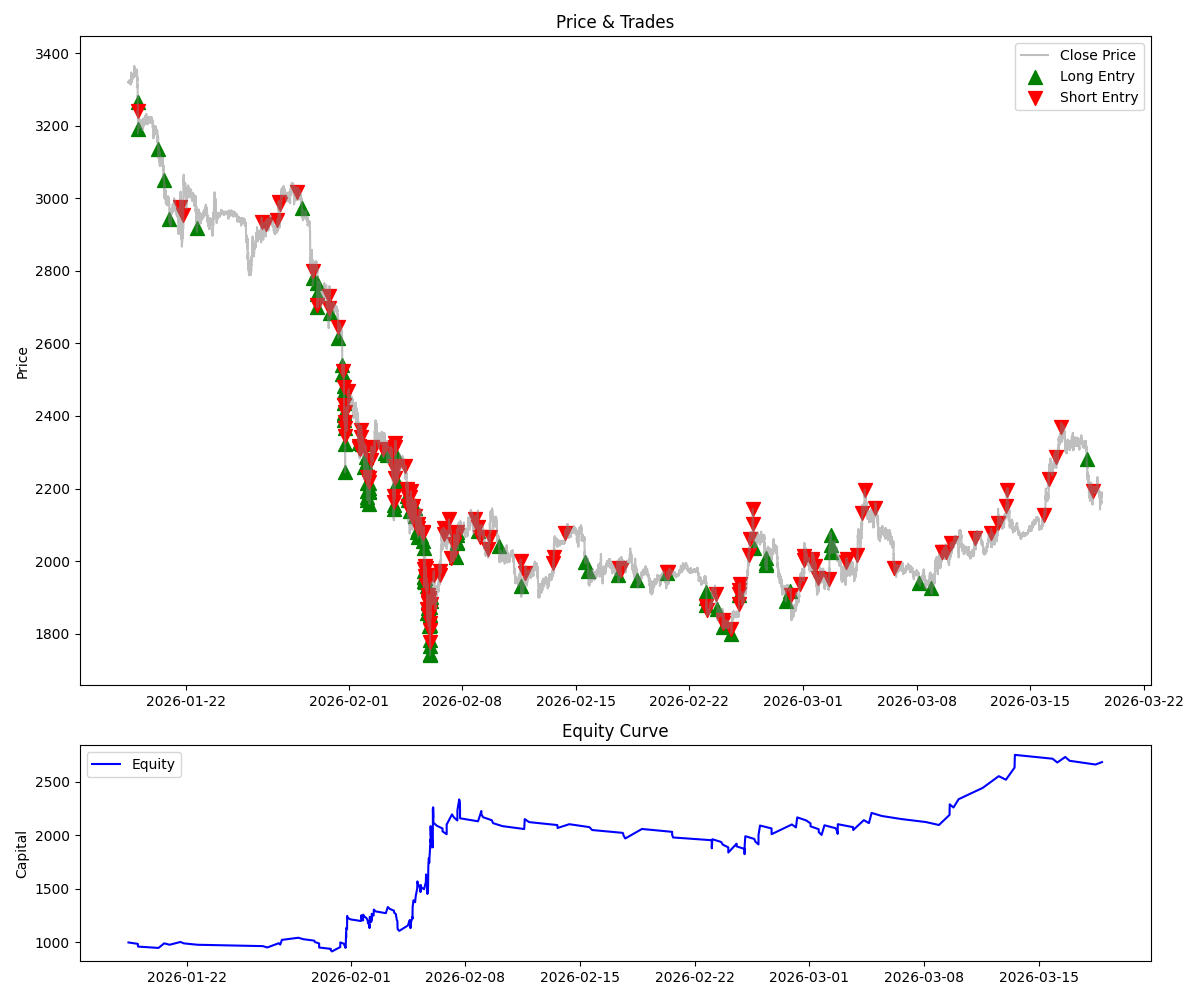
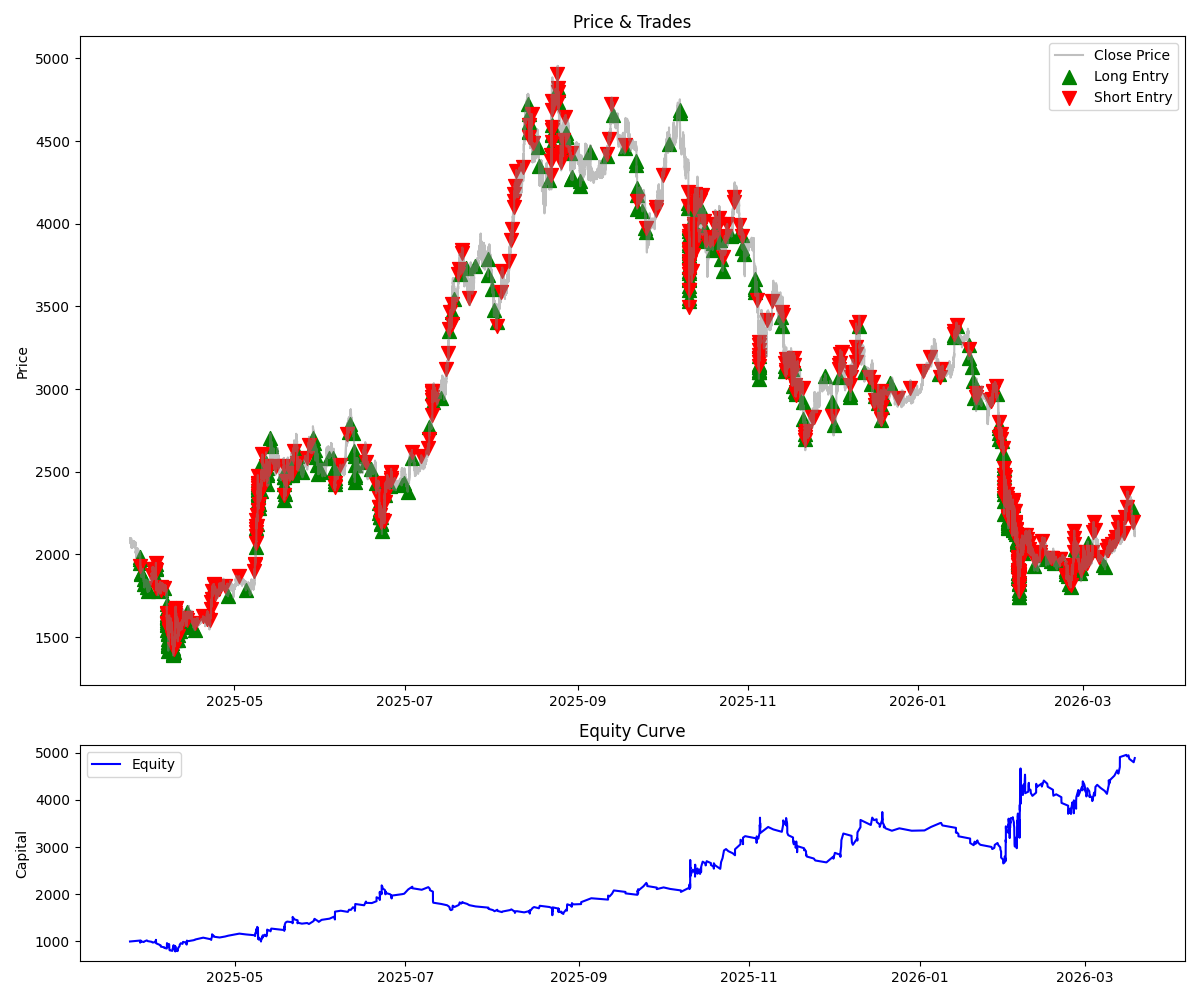
fixed

diff --git a/live_trader.py b/live_trader.py
@@ -1,7 +1,7 @@
 """
 Live Trader — Delta Exchange India
-  Entry  : Market order (next candle open)
-  SL     : Stop-Market  at entry ± STOP_LOSS_PCT
+  Entry  : Fast market order (~200ms), then attach SL/TP separately
+  SL     : Stop-Market at entry ± STOP_LOSS_PCT
   TP     : Limit order  at entry ± TAKE_PROFIT_PCT
   TIME   : Market close after TIME_EXIT_CANDLES candles regardless of P&L
   Signal : Same mean-reversion logic as backtester
@@ -118,35 +118,136 @@ def get_signal(open_: float, close_: float) -> int:
 
 # ── Order placement ───────────────────────────────────────────────────────────
 
-def place_bracket_order(side: str, size: int, entry_price: float) -> dict:
-    if side == "buy":
-        sl_trigger = round(entry_price * (1 - cfg.STOP_LOSS_PCT), 2)
-        tp_price   = round(entry_price * (1 + cfg.TAKE_PROFIT_PCT), 2)
-    else:
-        sl_trigger = round(entry_price * (1 + cfg.STOP_LOSS_PCT), 2)
-        tp_price   = round(entry_price * (1 - cfg.TAKE_PROFIT_PCT), 2)
-
+def place_market_order(side: str, size: int) -> dict:
+    """Step 1: Fast market entry (~200ms). Returns order response with fill price."""
     body = json.dumps({
-        "product_id":                      ETH_PRODUCT_ID,
-        "order_type":                      "market_order",
-        "side":                            side,
-        "size":                            size,
-        "bracket_stop_loss_price":         str(sl_trigger),   # stop market — no limit price
-        "bracket_take_profit_price":       str(tp_price),
-        "bracket_take_profit_limit_price": str(tp_price),
+        "product_id":  ETH_PRODUCT_ID,
+        "order_type":  "market_order",
+        "side":        side,
+        "size":        size,
     })
-
     path = "/v2/orders"
     try:
         resp = session.post(BASE_URL + path, headers=_rest_headers("POST", path, body), data=body, timeout=5)
         return resp.json()
     except Exception as e:
-        log.error(f"Order placement exception: {e}")
+        log.error(f"Market order exception: {e}")
         return {}
 
 
+def attach_sl_tp(side: str, size: int, fill_price: float, retries: int = 3) -> dict:
+    """Step 2: Attach SL (stop-market, exact config distance) + TP (limit) to the open position.
+    Retries up to `retries` times on failure."""
+    sl_distance = cfg.STOP_LOSS_PCT
+    if side == "buy":
+        sl_trigger = round(fill_price * (1 - sl_distance), 2)
+        tp_price   = round(fill_price * (1 + cfg.TAKE_PROFIT_PCT), 2)
+        sl_side    = "sell"
+    else:
+        sl_trigger = round(fill_price * (1 + sl_distance), 2)
+        tp_price   = round(fill_price * (1 - cfg.TAKE_PROFIT_PCT), 2)
+        sl_side    = "buy"
+
+    # Place SL — stop-market order
+    sl_body = json.dumps({
+        "product_id":    ETH_PRODUCT_ID,
+        "order_type":    "market_order",
+        "stop_order_type": "stop_loss_order",
+        "side":          sl_side,
+        "size":          size,
+        "stop_price":    str(sl_trigger),
+        "reduce_only":   True,
+    })
+
+    # Place TP — limit order
+    tp_body = json.dumps({
+        "product_id":  ETH_PRODUCT_ID,
+        "order_type":  "limit_order",
+        "side":        sl_side,
+        "size":        size,
+        "limit_price": str(tp_price),
+        "reduce_only": True,
+    })
+
+    path = "/v2/orders"
+    sl_ok, tp_ok = False, False
+    sl_result, tp_result = {}, {}
+
+    for attempt in range(1, retries + 1):
+        try:
+            # SL first — protection is priority
+            if not sl_ok:
+                resp = session.post(BASE_URL + path, headers=_rest_headers("POST", path, sl_body), data=sl_body, timeout=5)
+                sl_result = resp.json()
+                if sl_result.get("success"):
+                    sl_ok = True
+                    log.info(f"SL attached | stop-market @ {sl_trigger} (1.5× = {sl_distance*100:.3f}%) | attempt {attempt}")
+                else:
+                    log.warning(f"SL attach failed (attempt {attempt}/{retries}): {sl_result}")
+
+            # TP after SL is secured
+            if not tp_ok:
+                resp = session.post(BASE_URL + path, headers=_rest_headers("POST", path, tp_body), data=tp_body, timeout=5)
+                tp_result = resp.json()
+                if tp_result.get("success"):
+                    tp_ok = True
+                    log.info(f"TP attached | limit @ {tp_price} ({cfg.TAKE_PROFIT_PCT*100:.2f}%) | attempt {attempt}")
+                else:
+                    log.warning(f"TP attach failed (attempt {attempt}/{retries}): {tp_result}")
+
+            if sl_ok and tp_ok:
+                return {"success": True, "sl": sl_trigger, "tp": tp_price}
+
+        except Exception as e:
+            log.error(f"SL/TP attach exception (attempt {attempt}/{retries}): {e}")
+
+        if attempt < retries:
+            time.sleep(0.3)  # brief pause before retry
+
+    return {"success": sl_ok and tp_ok, "sl_ok": sl_ok, "tp_ok": tp_ok,
+            "sl": sl_result, "tp": tp_result}
+
+
+def cancel_open_orders() -> dict:
+    """Cancel ALL open orders for ETHUSD — cleans up orphan SL/TP after any exit."""
+    path = f"/v2/orders?product_id={ETH_PRODUCT_ID}"
+    try:
+        resp = session.get(BASE_URL + path, headers=_rest_headers("GET", path), timeout=5)
+        data = resp.json()
+    except Exception as e:
+        log.error(f"Fetch open orders exception: {e}")
+        return {}
+
+    if not data.get("success"):
+        log.warning(f"Could not fetch open orders: {data}")
+        return data
+
+    orders = data.get("result", [])
+    if not orders:
+        log.info("No open orders to cancel")
+        return {"success": True, "cancelled": 0}
+
+    cancelled = 0
+    for order in orders:
+        oid = order.get("id")
+        del_path = f"/v2/orders/{oid}"
+        try:
+            resp = session.delete(BASE_URL + del_path, headers=_rest_headers("DELETE", del_path), timeout=5)
+            r = resp.json()
+            if r.get("success"):
+                cancelled += 1
+                log.info(f"Cancelled order {oid} | type={order.get('order_type')} side={order.get('side')}")
+            else:
+                log.warning(f"Failed to cancel order {oid}: {r}")
+        except Exception as e:
+            log.error(f"Cancel order {oid} exception: {e}")
+
+    log.info(f"Cancelled {cancelled}/{len(orders)} open orders")
+    return {"success": True, "cancelled": cancelled}
+
+
 def close_position(side: str, size: int) -> dict:
-    """Market close — opposite side, reduce_only. Also cancels bracket orders."""
+    """Market close — opposite side, reduce_only. Then cancel all open orders (SL/TP)."""
     close_side = "sell" if side == "buy" else "buy"
     body = json.dumps({
         "product_id":  ETH_PRODUCT_ID,
@@ -158,10 +259,14 @@ def close_position(side: str, size: int) -> dict:
     path = "/v2/orders"
     try:
         resp = session.post(BASE_URL + path, headers=_rest_headers("POST", path, body), data=body, timeout=5)
-        return resp.json()
+        result = resp.json()
     except Exception as e:
         log.error(f"Close position exception: {e}")
         return {}
+
+    # Always cancel orphan SL/TP after closing
+    cancel_open_orders()
+    return result
 
 
 # ── WS session ────────────────────────────────────────────────────────────────
@@ -189,10 +294,6 @@ async def _session(in_position: bool, current_candle: dict):
             return
         if current_candle is None or current_candle["start"] != scheduled_candle_start:
             return  # candle already closed before we woke up
-        if not is_asian_session():
-            log.info("Outside Asian session (05:30-11:30 IST) — skipping")
-            return
-
         signal = get_signal(current_candle["open"], current_candle["close"])
         if signal == 0:
             log.info(f"T-400ms check: body < {cfg.REVERSAL_CANDLE_PCT*100:.2f}% — no trade")
@@ -201,31 +302,33 @@ async def _session(in_position: bool, current_candle: dict):
         traded_candle_start = scheduled_candle_start
         t_signal    = time.time()
         side        = "buy" if signal == 1 else "sell"
-        entry_price = current_candle["close"]
         size        = cfg.ORDER_SIZE
 
-        if side == "buy":
-            sl_p = round(entry_price * (1 - cfg.STOP_LOSS_PCT), 2)
-            tp_p = round(entry_price * (1 + cfg.TAKE_PROFIT_PCT), 2)
-        else:
-            sl_p = round(entry_price * (1 + cfg.STOP_LOSS_PCT), 2)
-            tp_p = round(entry_price * (1 - cfg.TAKE_PROFIT_PCT), 2)
+        log.info(f"T-400ms Signal: {'LONG' if signal == 1 else 'SHORT'} | "
+                 f"entry≈{current_candle['close']} | contracts={size}")
 
-        log.info(f"T-300ms Signal: {'LONG' if signal == 1 else 'SHORT'} | "
-                 f"entry≈{entry_price} | SL={sl_p} | TP={tp_p} | contracts={size}")
-
-        result = place_bracket_order(side, size, entry_price)
+        # Step 1: Fast market entry
+        result = place_market_order(side, size)
         t_order = time.time()
 
-        if result.get("success"):
-            in_position  = True
-            candle_count = 0
-            trade_side   = side
-            trade_size   = size
-            log.info(f"Bracket order placed | id={result['result']['id']} | "
-                     f"delay={t_order - t_signal:.3f}s")
-        else:
-            log.error(f"Order failed: {result}")
+        if not result.get("success"):
+            log.error(f"Market order failed: {result}")
+            return
+
+        order_data = result.get("result", {})
+        fill_price = float(order_data.get("average_fill_price") or current_candle["close"])
+        log.info(f"Market order filled | id={order_data.get('id')} | "
+                 f"fill={fill_price} | delay={t_order - t_signal:.3f}s")
+
+        in_position  = True
+        candle_count = 0
+        trade_side   = side
+        trade_size   = size
+
+        # Step 2: Attach SL (stop-market) + TP (limit) with retry
+        sl_tp = attach_sl_tp(side, size, fill_price)
+        if not sl_tp.get("success"):
+            log.error(f"SL/TP attach incomplete: {sl_tp} — POSITION IS UNPROTECTED")
 
     # ── WS connection ─────────────────────────────────────────────────────────
     async with websockets.connect(WS_URL) as ws:
@@ -259,7 +362,9 @@ async def _session(in_position: bool, current_candle: dict):
                 state = order.get("state", "")
                 if state in ("closed", "cancelled") and in_position:
                     reason = order.get("close_reason", "unknown")
-                    log.info(f"Position closed | reason={reason} | ready for next signal")
+                    log.info(f"Position closed | reason={reason} | cancelling remaining orders...")
+                    cancel_open_orders()
+                    log.info("Ready for next signal")
                     in_position  = False
                     candle_count = 0
                     trade_side   = None
@@ -305,10 +410,10 @@ async def _session(in_position: bool, current_candle: dict):
                             trade_side   = None
                             trade_size   = 0
 
-                    # Schedule T-300ms check for the new candle
+                    # Schedule T-1s check for the new candle
                     if not in_position:
                         candle_start_unix = new_start / 1_000_000 if new_start > 1e12 else new_start
-                        fire_at = candle_start_unix + 60 - 0.4
+                        fire_at = candle_start_unix + 60 - 1.0
                         check_task = asyncio.create_task(
                             _check_at_t_minus_300(new_start, fire_at)
                         )

diff --git a/optimizer_asian.py b/optimizer_asian.py
@@ -1,6 +1,9 @@
 import pandas as pd
 import numpy as np
 import itertools
+from config import Config
+
+cfg = Config()
 
 # ---- Mean-Reversion Backtest (vectorized) ------------------------------------
 #
@@ -60,7 +63,7 @@ def run_backtest_vec(opens, highs, lows, closes,
                     pnl_pct = (exit_price - entry_price) / entry_price
                 else:
                     pnl_pct = (entry_price - exit_price) / entry_price
-                pnl_pct -= 0.05 / 100.0  # taker entry fee
+                pnl_pct -= cfg.ENTRY_FEE_PCT + cfg.EXIT_FEE_PCT
                 pnl = trade_qty * pnl_pct * entry_price
                 equity += pnl
                 if pnl > 0: wins += 1; gross_profit += pnl
@@ -152,8 +155,8 @@ for rev, tp, sl, te in itertools.product(reversal_pcts, tp_pcts, sl_pcts, time_e
         rev_pct      = rev / 100.0,
         tp_pct       = tp  / 100.0,
         sl_pct       = sl  / 100.0,
-        sl_slip_pct  = 0.03  / 100.0,
-        slippage_pct = 0.02  / 100.0,
+        sl_slip_pct  = cfg.SL_SLIPPAGE_PCT,
+        slippage_pct = cfg.SLIPPAGE_PCT,
         time_exit    = te,
         leverage     = 10.0,
     )

diff --git a/optimizer.py b/optimizer.py
@@ -1,6 +1,9 @@
 import pandas as pd
 import numpy as np
 import itertools
+from config import Config
+
+cfg = Config()
 
 # ---- Mean-Reversion Backtest (vectorized) ------------------------------------
 #
@@ -59,7 +62,7 @@ def run_backtest_vec(opens, highs, lows, closes,
                     pnl_pct = (exit_price - entry_price) / entry_price
                 else:
                     pnl_pct = (entry_price - exit_price) / entry_price
-                pnl_pct -= 0.05 / 100.0  # taker entry fee
+                pnl_pct -= cfg.ENTRY_FEE_PCT + cfg.EXIT_FEE_PCT
                 pnl = trade_qty * pnl_pct * entry_price
                 equity += pnl
                 if pnl > 0: wins += 1; gross_profit += pnl
@@ -141,8 +144,8 @@ for rev, tp, sl, te in itertools.product(reversal_pcts, tp_pcts, sl_pcts, time_e
         rev_pct      = rev / 100.0,
         tp_pct       = tp  / 100.0,
         sl_pct       = sl  / 100.0,
-        sl_slip_pct  = 0.03  / 100.0,
-        slippage_pct = 0.02  / 100.0,
+        sl_slip_pct  = cfg.SL_SLIPPAGE_PCT,
+        slippage_pct = cfg.SLIPPAGE_PCT,
         time_exit    = te,
     )
     if res:

diff --git a/config.py b/config.py
@@ -11,11 +11,11 @@ class Config:
     # Exit Params
     TAKE_PROFIT_PCT    = 0.50 / 100.0
     STOP_LOSS_PCT      = 0.05 / 100.0
-    TIME_EXIT_CANDLES  = 13
+    TIME_EXIT_CANDLES  = 2
 
     # Realistic Market Params
     SLIPPAGE_PCT       = 0.02 / 100.0  # 0.02% slippage on entry
-    SL_SLIPPAGE_PCT    = 0.03 / 100.0  # 0.03% slippage on SL fill (stop market)
+    SL_SLIPPAGE_PCT    = 0.05 / 100.0  # 0.02% slippage on SL fill (stop market)
     LEVERAGE           = 10.0           # 1x for safe testing, up to 5x later
 
     # Fees (Delta Exchange maker/taker)

diff --git a/fetch_delta_data.py b/fetch_delta_data.py
@@ -76,4 +76,4 @@ def fetch_historical_data(symbol="ETHUSDT", resolution="1m", days=120):
     print(f"  To   : {df['timestamp'].iloc[-1]}")
 
 if __name__ == "__main__":
-    fetch_historical_data(days=60)
+    fetch_historical_data(days=360)
